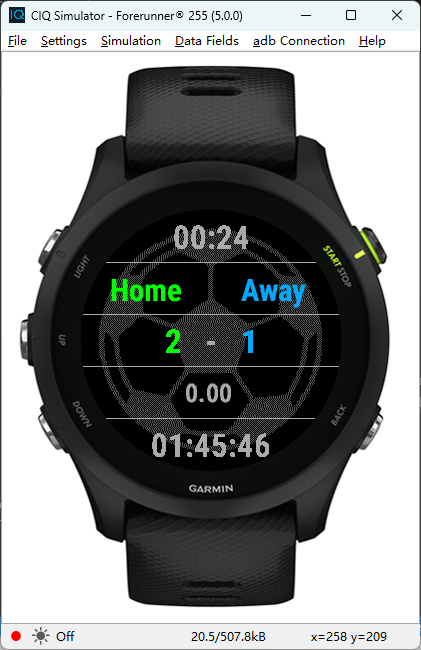
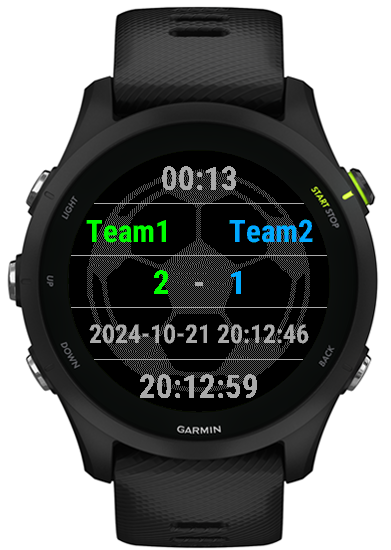
LoopView

diff --git a/README.md b/README.md
@@ -33,6 +33,11 @@ The basic features have been implemented.
 1. Show speed or start time
 2. Change team name
 
+### 2024/10/21 v1.2
+
+1. Page Report(LoopView)
+2. Change team name success
+
 ## Screenshots
 
 ![Home](Screenshots/Home.png)
@@ -50,3 +55,5 @@ The basic features have been implemented.
 ![Report](Screenshots/Report.png)
 
 ![TeamName](Screenshots/TeamName.png)
+
+![PageReport](Screenshots/PageReport.png)
